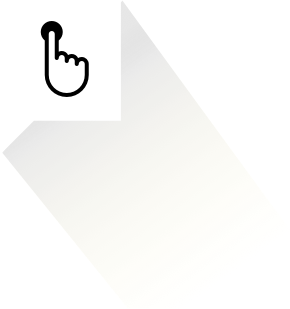
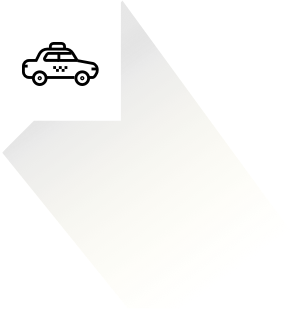
Implemented schedule map and sliding

Changed region(s): [[0.0621, 0.0583, 0.3414, 0.3204]]

diff --git a/NodeJs/public/js/index/schedule.js b/NodeJs/public/js/index/schedule.js
@@ -4,6 +4,7 @@
         var config;
         var refreshTimeoutObject;
         var removePastDepaturesTimeoutObject;
+        var switchStopsCounter;
         var switchStopsTimeoutObject;
         var $schedule;
         var stopTemplate;
@@ -24,6 +25,9 @@
                     var html = futu.templates.renderMany(stopTemplate, templatesData);
                     $schedule.find('.left .wrapper').html(html);
                     updateDeparturesHtml(results);
+
+                    switchStopsCounter = 0;
+                    switchStopsTimeoutObject = setInterval(switchStops, config.switchStopsInterval);
                 });
         };
 
@@ -112,17 +116,6 @@
             return deferred;
         };
 
-        var removePastDepatures = function() {
-            $schedule.find('.body tr').each(function() {
-                var now = moment().add(-1, 'm');
-                var departure = moment($(this).data('isoDateTime'));
-                if(now < departure) return;
-                
-                $(this).remove();
-            });
-        };
-
-        var switchStopsCounter;
         var switchStops = function(argument) {
             switchStopsCounter = (switchStopsCounter + 1) % config.stopCodes.length;
 
@@ -130,7 +123,7 @@
             $schedule.find('.left .wrapper').animate({
                 left: -halfWidth + 'px',
             }, {
-                duration: 1000,
+                duration: 600,
                 done: function() {
                     var $this = $(this);
                     $this.css('left', '0');
@@ -138,10 +131,22 @@
                 }
             });
 
+            $schedule.find('.right .map .icon').hide();
+            $schedule.find('.right .map .icon-' + (switchStopsCounter+1)).show();
             $schedule.find('.right .map').animate({
                 left: -((switchStopsCounter / 2 >> 0) * halfWidth) + 'px',
             }, {
-                duration: 1000,
+                duration: 600,
+            });
+        };
+
+        var removePastDepatures = function() {
+            $schedule.find('.body tr').each(function() {
+                var now = moment().add(-1, 'm');
+                var departure = moment($(this).data('isoDateTime'));
+                if(now < departure) return;
+                
+                $(this).remove();
             });
         };
 
@@ -163,9 +168,7 @@
                     clearTimeout(removePastDepaturesTimeoutObject);
                     removePastDepaturesTimeoutObject = setInterval(removePastDepatures, config.removePastDepaturesInterval);
 
-                    switchStopsCounter = 0;
                     clearTimeout(switchStopsTimeoutObject);
-                    switchStopsTimeoutObject = setInterval(switchStops, config.switchStopsInterval);
                 }
             };
         };

diff --git a/NodeJs/public/index.html b/NodeJs/public/index.html
@@ -27,7 +27,11 @@
             </div>
             <div class="right">
                 <div class="map">
-                    <img src="/img/map.jpg" alt=""/>
+                    <img class="icon icon-1" src="/img/schedule/stop-1.png" alt=""/>
+                    <img class="icon icon-2" src="/img/schedule/stop-2.png" alt=""/>
+                    <img class="icon icon-3" src="/img/schedule/stop-3.png" alt=""/>
+                    <img class="icon icon-4" src="/img/schedule/stop-4.png" alt=""/>
+                    <img src="/img/schedule/map.jpg" alt=""/>
                 </div>
             </div>
         </div>
@@ -134,7 +138,7 @@
     <script id="schedule-stop-template" type="html/template">
         <div class="stop stop-{{index}}">
             <div class="header">
-                <img class="icon" src="/img/bus-stop.svg" alt=""/>
+                <img class="icon" src="/img/schedule/bus-stop.svg" alt=""/>
                 {{stopName}}
             </div>
             <table class="body"></table>

diff --git a/NodeJs/public/css/common.css b/NodeJs/public/css/common.css
@@ -72,6 +72,11 @@ body {max-width:1080px; max-height:1920px; font-family:'SharpSans'; color:black;
 #schedule .left .stop table tr td:nth-child(3) {width:18%; padding-right:16px; text-align:center; font-weight:bold;}
 #schedule .right {float:right; width:50%; position:relative; overflow:hidden;}
 #schedule .right .map {position:relative;}
+#schedule .right .map .icon {position:absolute; display:none;}
+#schedule .right .map .icon-1 {top:96px; left:152px; display:block;}
+#schedule .right .map .icon-2 {top:300px; left:276px;}
+#schedule .right .map .icon-3 {top:244px; left:721px;}
+#schedule .right .map .icon-4 {top:229px; left:771px;}
 
 #taxi {height:356px; position:relative; background-color:#ffde00;}
 #taxi .frames {width:100%; height:100%; display:table;}
